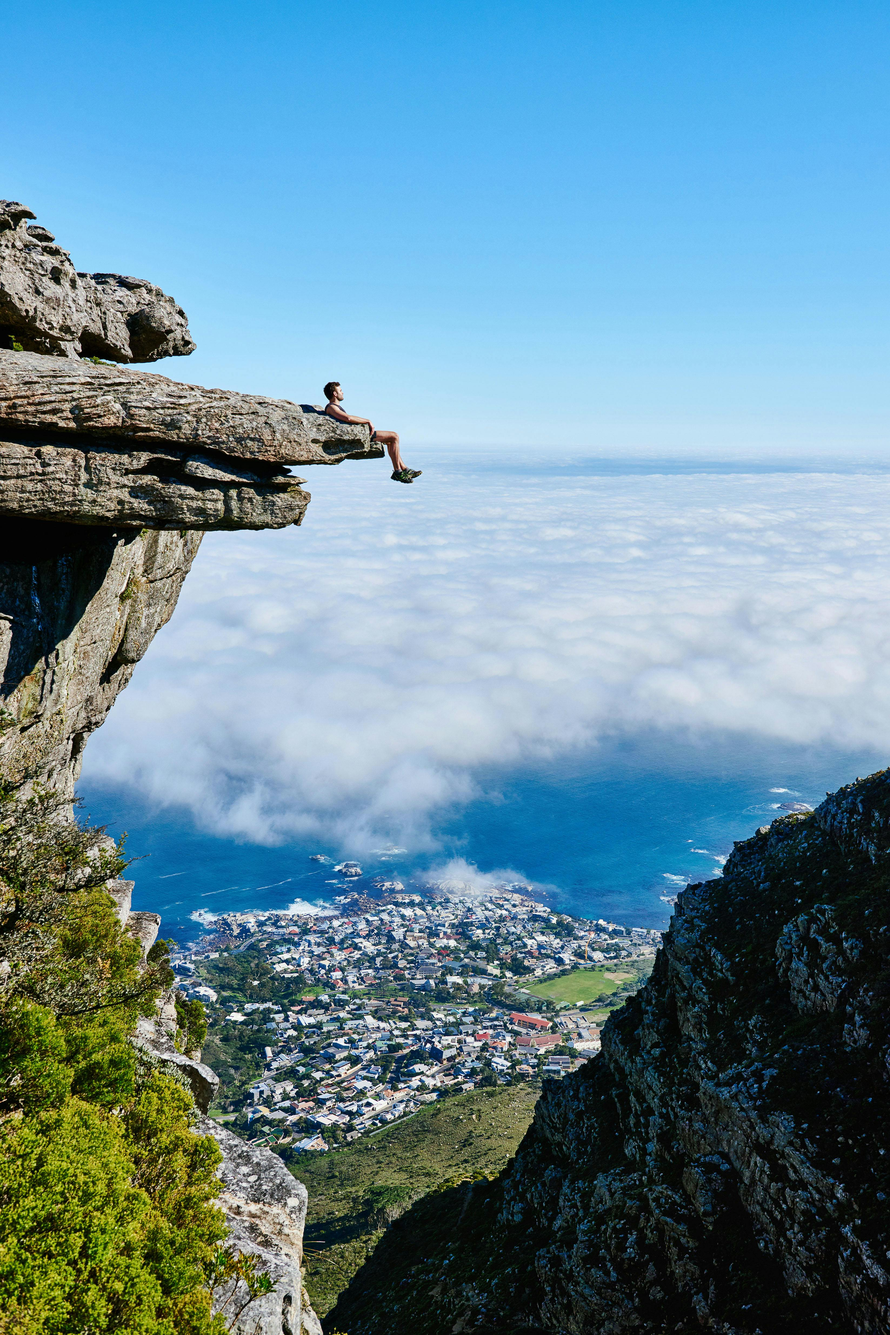
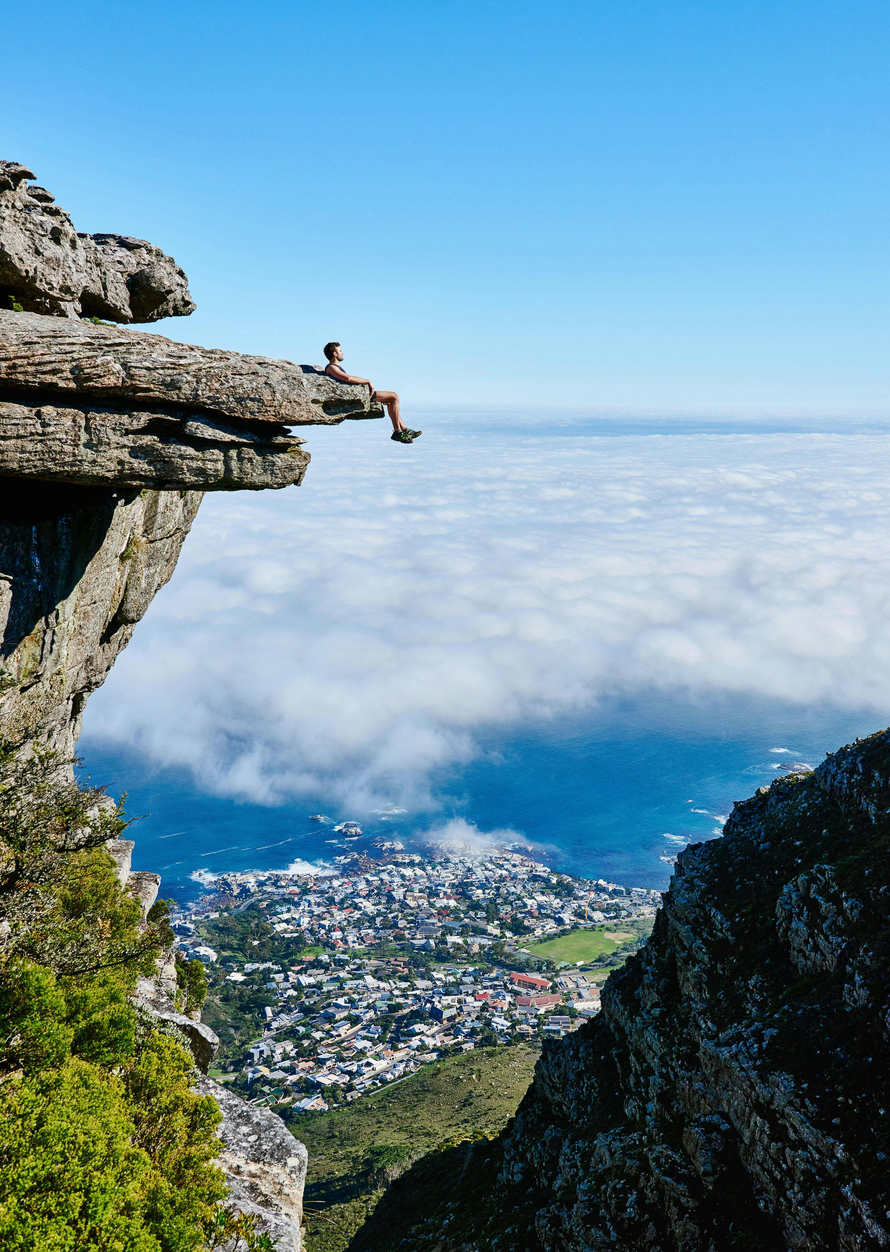
update

diff --git a/index.html b/index.html
@@ -74,7 +74,7 @@
                             <h3>Life's a beach, so we'll keep this short and sweet. We're a tight-knit group of excitable individuals, with a passion for all things social. Whether you're fishing for creative campaigns or help with paid social, we've got ideas that are guaranteed to float your boat.</h3>
                         </div>
                         <div class="about-cnt-underline">
-                            <marquee direction="left" loop=""><img src="images/about-underline-squiggle.svg" alt=""></marquee>
+                            <marquee direction="left" loop=""><img src="images/about-underline.svg" alt=""></marquee>
                         </div>
                         <div class="about-part-section">
                             <div class="row">
@@ -130,6 +130,14 @@
                             <div class="service-big-link-cnt">
                                 <div class="service-post-number">
                                     <h4>01</h4>
+                                </div>
+                                <div class="service-post-name">
+                                    <div class="post-name-img">
+                                        <img src="images/service-post-img-1.jpg" alt="">
+                                    </div>
+                                    <div class="post-name-txt">
+                                        <h3>PUBLIC RELATIONS</h3>
+                                    </div>
                                 </div>
                             </div>
                         </div>

diff --git a/css/style.css b/css/style.css
@@ -624,10 +624,31 @@ nav{
     letter-spacing: 2px;
 }
 
+.service-big-link-cnt
+{
+    display: flex;
+}
 
+.service-post-name
+{
+    display: flex;
+    justify-content: center;
+    align-items: center;
+    margin: 0 auto;
+    gap: 30px;
+}
 
+.post-name-img img
+{
+    width: 60px;
+}
 
-
+.post-name-txt h3
+{
+    color: #1658b3;
+    font-family: 'BatonTurbo-Bold';
+    font-size: 48px;
+}
 
 
 
@@ -737,10 +758,11 @@ nav{
 }
 /*****************************************SERVICE_PAGE_1**********************************************/
 
-.service-post-main
+.service-post-img img
 {
-    max-width: 100vw;
+    width: 100%;
     height: 100px;
+    object-fit: contain;
 }
 
 
